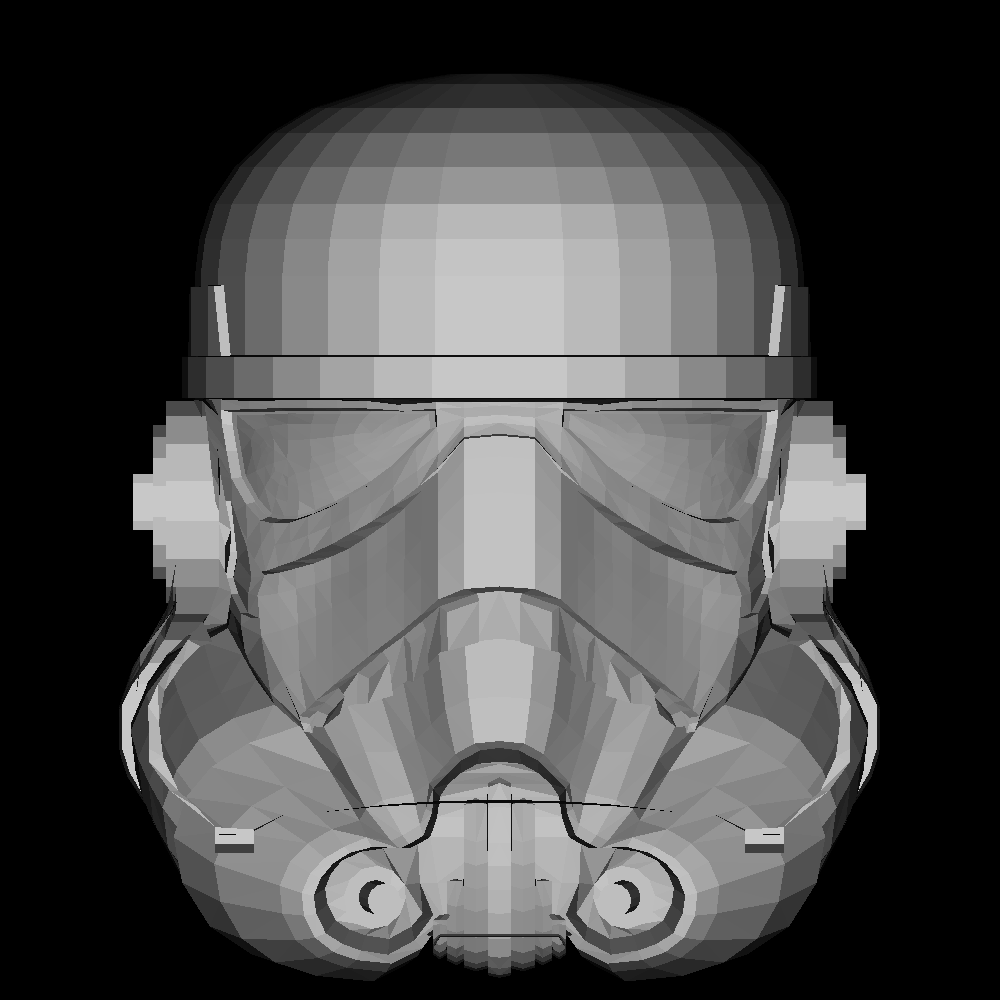
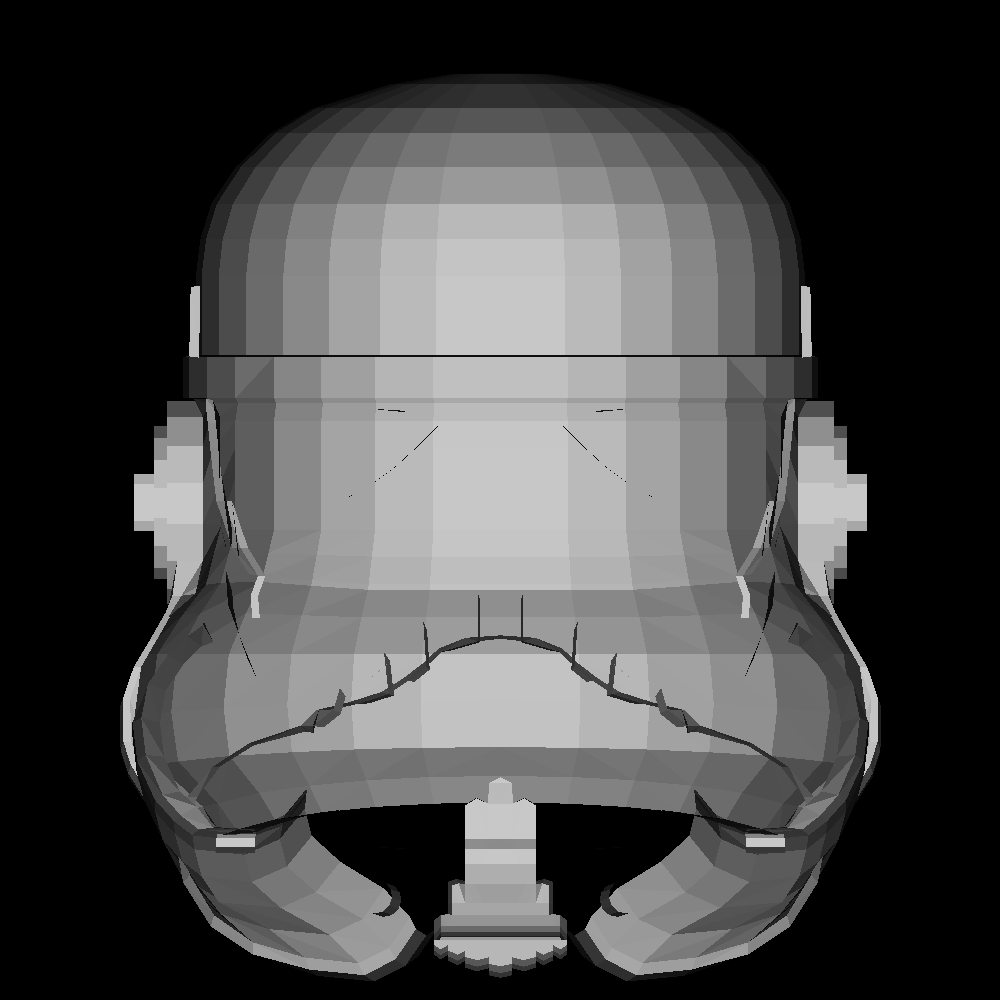
что-то исправил, что-то поломал

Changed region(s): [[0.124, 0.279, 0.899, 0.992]]

diff --git a/src/com/company/SimpleObjUtils.java b/src/com/company/SimpleObjUtils.java
@@ -161,8 +161,8 @@ public class SimpleObjUtils {
             // рисуем все треугольники с двумя соседними вершинами и нулевой вершиной
             int v0=vertices.get(0).getV()>0?vertices.get(0).getV()-1:coords.size()+vertices.get(0).getV();
             for(int j=1; j<vertices.size()-1; j++){
-                int v1=vertices.get(j).getV()>0?vertices.get(j).getV()-1:coords.size()+vertices.get(j).getV();
-                int v2=vertices.get(j+1).getV()>0?vertices.get(j+1).getV()-1:coords.size()+vertices.get(j+1).getV();
+                int v2=vertices.get(j).getV()>0?vertices.get(j).getV()-1:coords.size()+vertices.get(j).getV();
+                int v1=vertices.get(j+1).getV()>0?vertices.get(j+1).getV()-1:coords.size()+vertices.get(j+1).getV();
                 if(MathTools.normDotProduct(MathTools.normal(coords.get(v0),coords.get(v1),coords.get(v2)),new Coord(0,0,1))<0)
                     PictureUtils.drawTriangle(picture,
                             new Coord(coords.get(v0).getX()*scale+xShift, (coords.get(v1).getX()*scale+xShift), (coords.get(v2).getX()*scale+xShift)),
@@ -185,8 +185,8 @@ public class SimpleObjUtils {
             // рисуем все треугольники с двумя соседними вершинами и нулевой вершиной
             int v0=vertices.get(0).getV()>0?vertices.get(0).getV()-1:coords.size()+vertices.get(0).getV();
             for(int j=1; j<vertices.size()-1; j++){
-                int v1=vertices.get(j).getV()>0?vertices.get(j).getV()-1:coords.size()+vertices.get(j).getV();
-                int v2=vertices.get(j+1).getV()>0?vertices.get(j+1).getV()-1:coords.size()+vertices.get(j+1).getV();
+                int v2=vertices.get(j).getV()>0?vertices.get(j).getV()-1:coords.size()+vertices.get(j).getV();
+                int v1=vertices.get(j+1).getV()>0?vertices.get(j+1).getV()-1:coords.size()+vertices.get(j+1).getV();
                 double normal=MathTools.normDotProduct(MathTools.normal(coords.get(v0),coords.get(v1),coords.get(v2)),new Coord(0,0,1));
                 if(normal<0)
                     PictureUtils.drawTriangle(picture,
@@ -209,8 +209,8 @@ public class SimpleObjUtils {
             // рисуем все треугольники с двумя соседними вершинами и нулевой вершиной
             int v0=vertices.get(0).getV()>0?vertices.get(0).getV()-1:coords.size()+vertices.get(0).getV();
             for(int j=1; j<vertices.size()-1; j++){
-                int v1=vertices.get(j).getV()>0?vertices.get(j).getV()-1:coords.size()+vertices.get(j).getV();
-                int v2=vertices.get(j+1).getV()>0?vertices.get(j+1).getV()-1:coords.size()+vertices.get(j+1).getV();
+                int v2=vertices.get(j).getV()>0?vertices.get(j).getV()-1:coords.size()+vertices.get(j).getV();
+                int v1=vertices.get(j+1).getV()>0?vertices.get(j+1).getV()-1:coords.size()+vertices.get(j+1).getV();
                 double normal=MathTools.normDotProduct(MathTools.normal(coords.get(v0),coords.get(v1),coords.get(v2)),new Coord(0,0,1));
                                 if(normal<0)
                     PictureUtils.drawTriangleZ(picture,

diff --git a/src/com/company/Main.java b/src/com/company/Main.java
@@ -53,11 +53,11 @@ public class Main {
             /*
             // все вершины
             Picture picture8 = SimpleObjUtils.SimpleObjToPicture1(stormTrooper,1000,1000,250,500,500);
-            PictureUtils.savePicture(PictureUtils.rotatePicture(picture8), "pictures/lab1/picture8.png");
+            PictureUtils.savePicture(picture8, "pictures/lab1/picture8.png");
 
             // все рёбра всех полигонов
             Picture picture9 = SimpleObjUtils.SimpleObjToPicture2(stormTrooper,1000,1000,250,500,500);
-            PictureUtils.savePicture(PictureUtils.rotatePicture(picture9), "pictures/lab1/picture9.png");
+            PictureUtils.savePicture(picture9, "pictures/lab1/picture9.png");
             */
 
 
@@ -83,33 +83,33 @@ public class Main {
 
             // все полигоны случайным цветом
             Picture picture1 = SimpleObjUtils.SimpleObjToPicture3(stormTrooper,1000,1000,250,500,500);
-            PictureUtils.savePicture(PictureUtils.rotatePicture(picture1), "pictures/lab2/picture1.png");
+            PictureUtils.savePicture(picture1, "pictures/lab2/picture1.png");
 
             // полигоны без нелицевых граней
             Picture picture2 = SimpleObjUtils.SimpleObjToPicture4(stormTrooper,1000,1000,250,500,500);
-            PictureUtils.savePicture(PictureUtils.rotatePicture(picture2), "pictures/lab2/picture2.png");
+            PictureUtils.savePicture(picture2, "pictures/lab2/picture2.png");
 
             // базовое освещение
             Picture picture3 = SimpleObjUtils.SimpleObjToPicture5(stormTrooper,1000,1000,250,500,500);
-            PictureUtils.savePicture(PictureUtils.rotatePicture(picture3), "pictures/lab2/picture3.png");
+            PictureUtils.savePicture(picture3, "pictures/lab2/picture3.png");
 
             // z-буффер
             Picture picture4 = SimpleObjUtils.SimpleObjToPicture6(stormTrooper,1000,1000,250,500,500);
-            PictureUtils.savePicture(PictureUtils.rotatePicture(picture4), "pictures/lab2/picture4.png");
+            PictureUtils.savePicture(picture4, "pictures/lab2/picture4.png");
             */
 
 
             //lab3
             /*
-            */
             // проективное преобразование
             Picture picture0 = SimpleObjUtils.SimpleObjToPicture7(stormTrooper,1000,1000,900, 900,500,500, 5);
             PictureUtils.savePicture(picture0, "pictures/lab3/picture0.png");
 
             // с поворотом
-            SimpleObjUtils.RotateSimpleObj(stormTrooper,1.05*Math.PI,0.3,0);
+            SimpleObjUtils.RotateSimpleObj(stormTrooper,-0.05*Math.PI,0.93*Math.PI,0);
             Picture picture1 = SimpleObjUtils.SimpleObjToPicture7(stormTrooper,1000,1000,900, 900,500,500, 5);
             PictureUtils.savePicture(picture1, "pictures/lab3/picture1.png");
+            */
 
         } catch (Exception e){
             e.printStackTrace();

diff --git a/src/com/company/PictureUtils.java b/src/com/company/PictureUtils.java
@@ -33,7 +33,8 @@ public class PictureUtils {
 
     // отрисовка одного пикселя
     public static void drawPixel(Picture picture, int x, int y, Color color) {
-        picture.getColorArray()[x][y] = color;
+        int h= picture.getH();
+        picture.getColorArray()[x][h-y-1] = color;
     }
 
 
